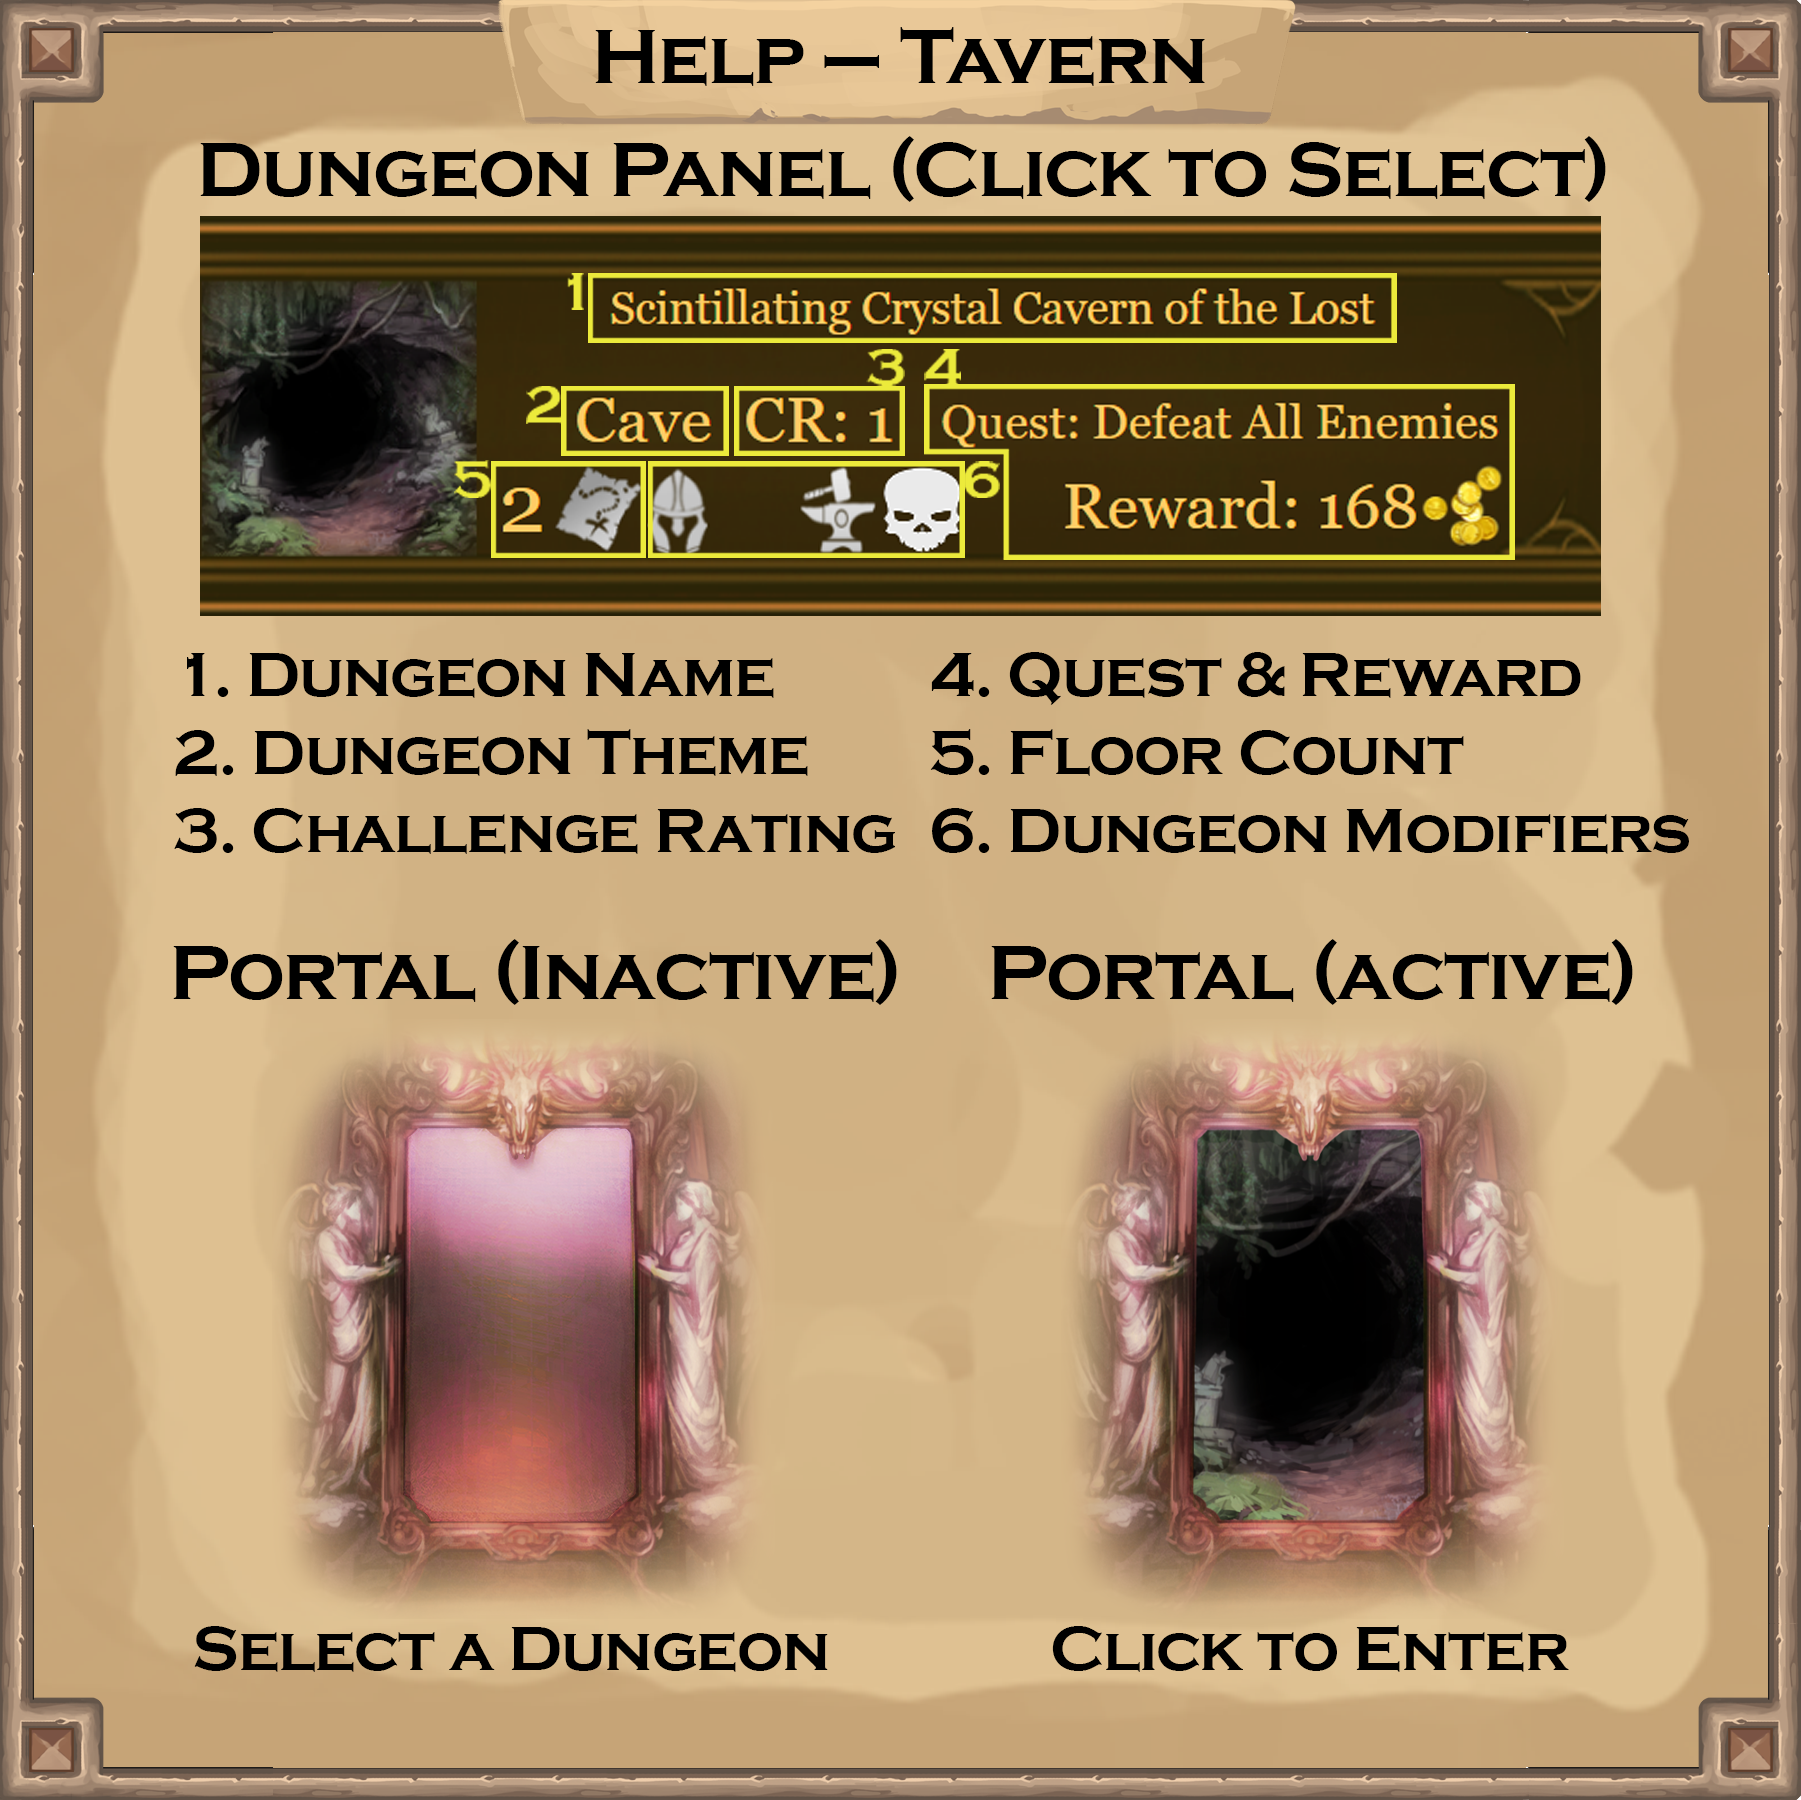
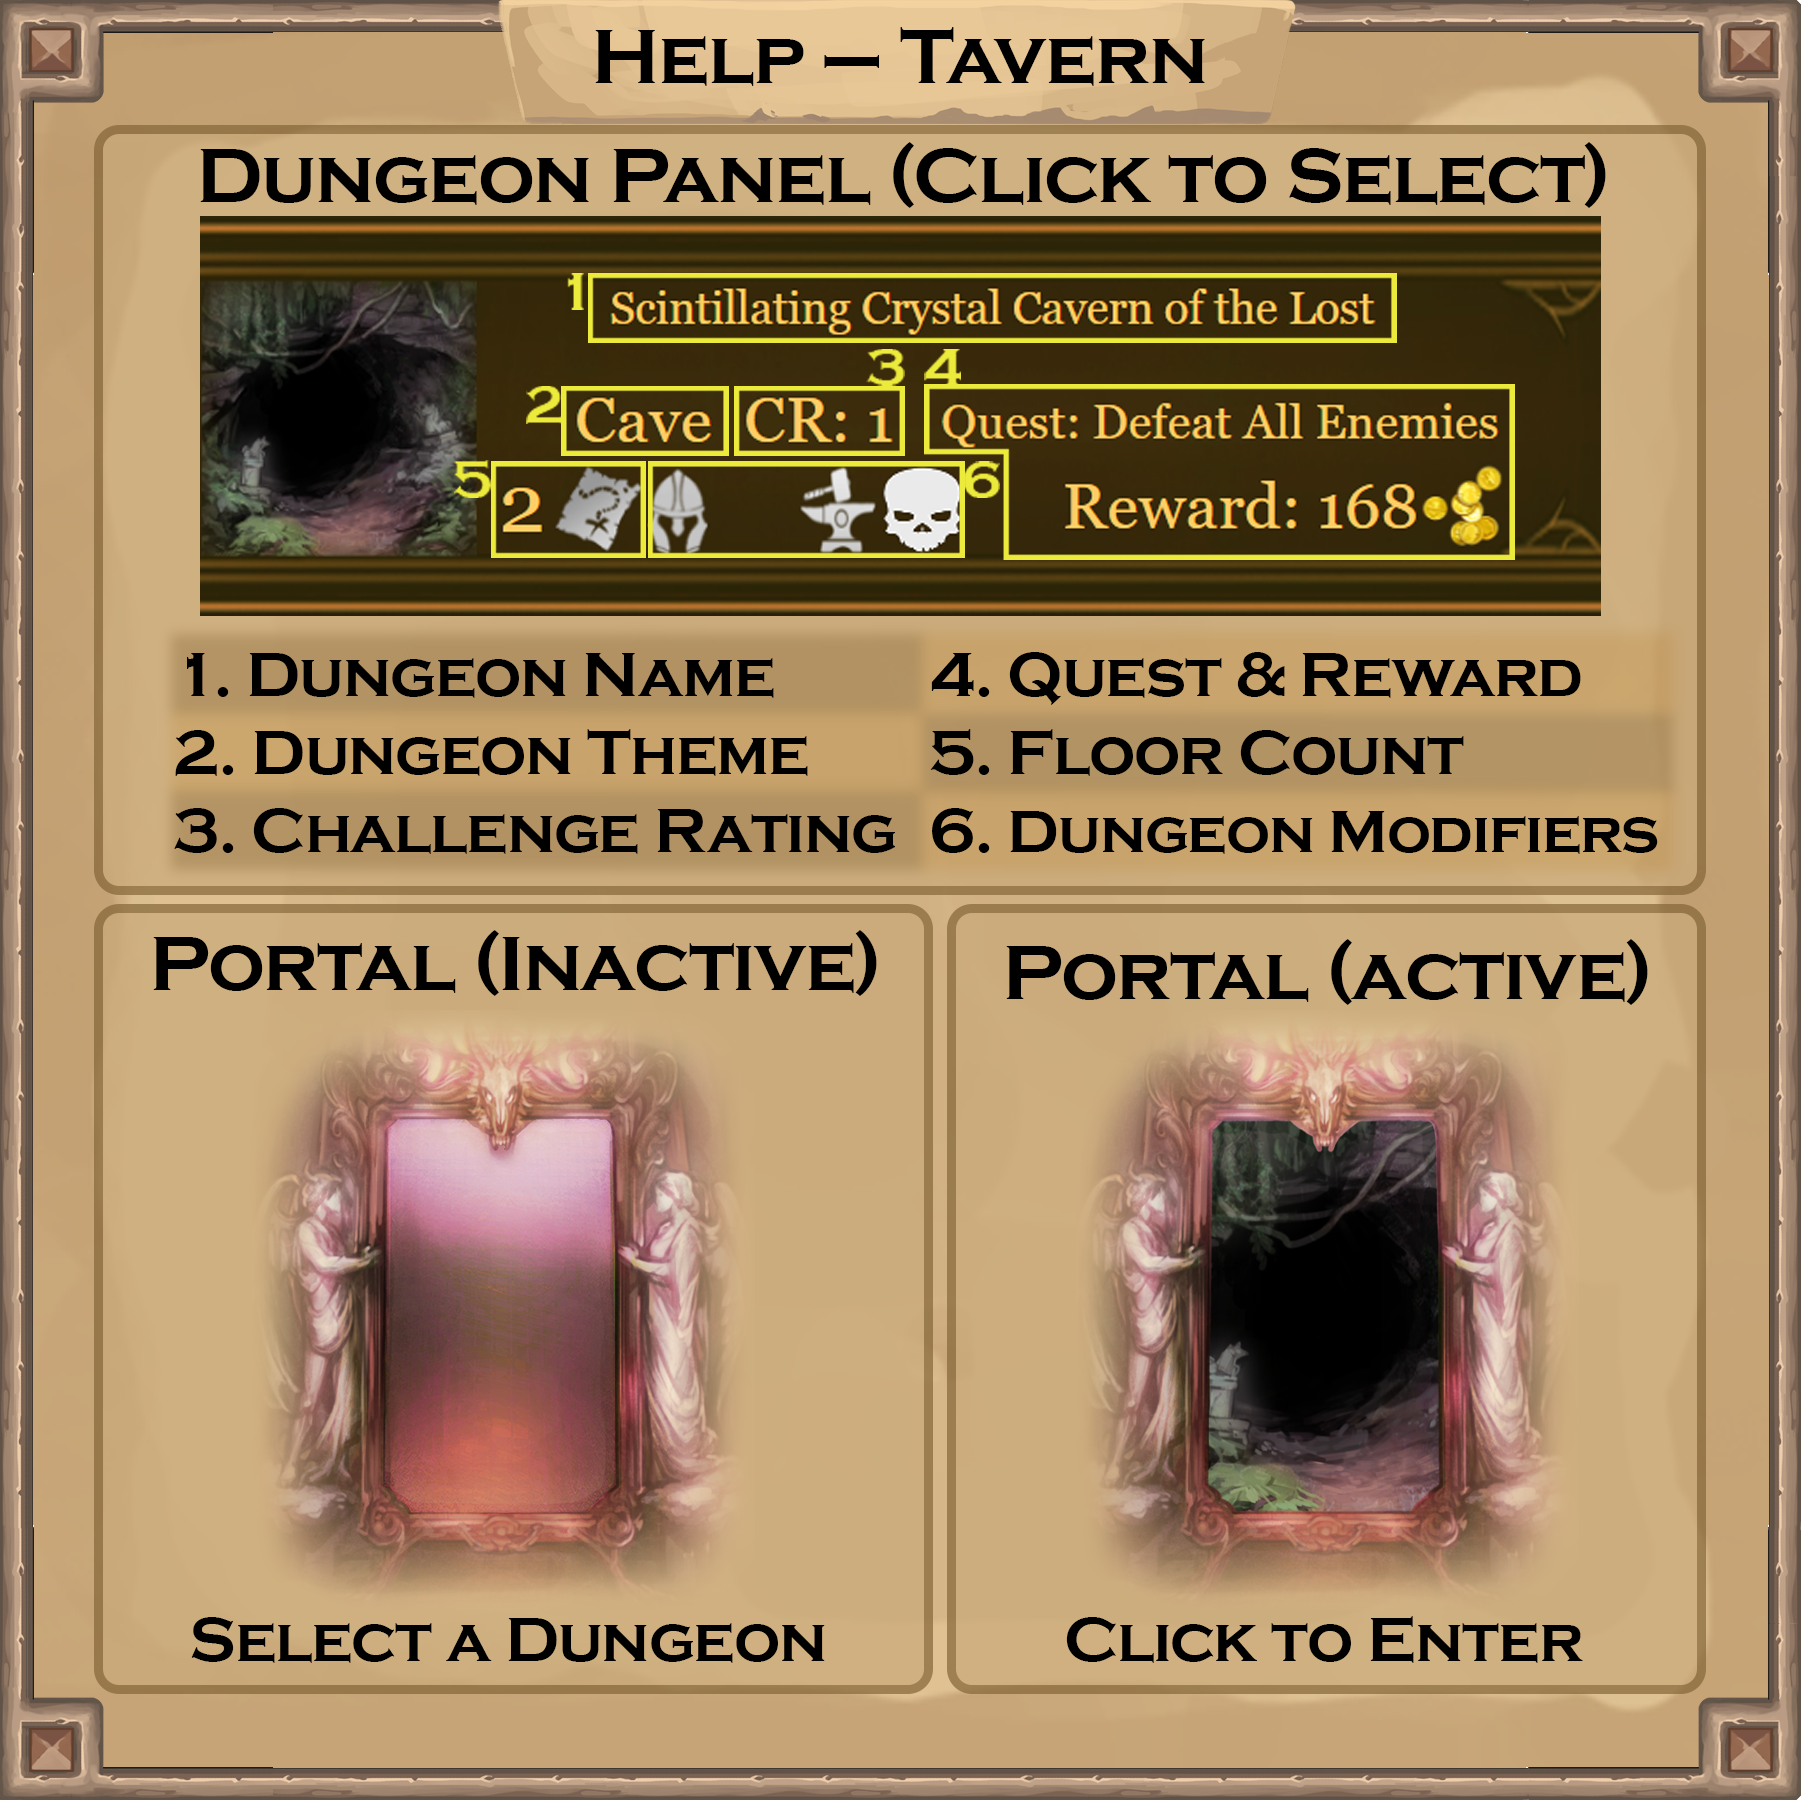
help menus

diff --git a/src/main/app/src/App.js b/src/main/app/src/App.js
@@ -27,6 +27,7 @@ class App extends React.Component {
       combatTransitions: false,
       questComplete: false,
       menu: null,
+      help: false,
       widthChange: 0,
       eaten: 0,
       rested: 0,
@@ -89,8 +90,12 @@ class App extends React.Component {
 
     this.disableUiMenus = false;
     this.backgroundSrc = "";
-    this.innerElements = <></>
-    this.outerElements = <></>
+    this.innerElements = []
+    this.outerElements = []
+    this.helpButton = 
+      <button className="btn-help" onClick={ () => {this.appState("help")} }>
+        <img src={images.helpIcon} alt="Help"/>
+      </button>
     this.InnerElements = () => {
       return(this.innerElements);
     }
@@ -141,8 +146,8 @@ class App extends React.Component {
     this.props.props.questComplete = this.state.questComplete;
     this.props.props.gameOver = this.state.gameOver;
     
-    this.innerElements = <></>
-    this.outerElements = <></>
+    this.innerElements = []
+    this.outerElements = []
     this.disableUiMenus = false;
     let button = "TownButton";
 
@@ -150,11 +155,17 @@ class App extends React.Component {
       if(this.state.scene === "Default"){
         this.backgroundSrc = this.props.props.images.town
         button = "HomeButton"
-        this.innerElements = <>
-          <input className="tavern" type="image" src={this.props.props.images.tavernExterior} alt="Tavern" onClick={ () => { this.setStateCustom({scene:"Tavern"})} }/>
-          <input className="inn" type="image" src={this.props.props.images.innExterior} alt="Inn" onClick={ () => { this.setStateCustom({scene:"Inn"})} }/>
-          <input className="shop" type="image" src={this.props.props.images.shopExterior} alt="Shop" onClick={ () => { this.setStateCustom({scene:"Shop"})} }/>
-        </>
+        this.innerElements.push(
+          <>
+            <input className="tavern" type="image" src={this.props.props.images.tavernExterior} alt="Tavern" onClick={ () => { this.setStateCustom({scene:"Tavern"})} }/>
+            <input className="inn" type="image" src={this.props.props.images.innExterior} alt="Inn" onClick={ () => { this.setStateCustom({scene:"Inn"})} }/>
+            <input className="shop" type="image" src={this.props.props.images.shopExterior} alt="Shop" onClick={ () => { this.setStateCustom({scene:"Shop"})} }/>
+          </>
+        );
+        this.outerElements.push(this.helpButton);
+        if(this.state.help){
+          this.outerElements.push(this.helpMenu(images.helpTown));
+        }
       } else if(this.state.scene === "Tavern"){
         if(this.state.pc.currentDungeon && (!this.state.dungeon || this.state.dungeon.id !== this.state.pc.currentDungeon)){
           fetch('/dungeon/'+ this.state.pc.currentDungeon)
@@ -183,15 +194,23 @@ class App extends React.Component {
 
         this.disableUiMenus = true;
         this.backgroundSrc = this.props.props.images.tavern
-        this.outerElements = <>
-          <TavernMenu props={this.props.props} dungeonBoard={this.state.dungeonBoard} dungeon={this.state.dungeon}/>
-        </>
+        this.outerElements.push( 
+          <>
+            <TavernMenu props={this.props.props} dungeonBoard={this.state.dungeonBoard} dungeon={this.state.dungeon}/>
+          </>
+        );
+        this.outerElements.push(this.helpButton);
+        if(this.state.help){
+          this.outerElements.push(this.helpMenu(images.helpTavern));
+        }
       } else if(this.state.scene==="Inn"){
         this.disableUiMenus = true;
         this.backgroundSrc = this.props.props.images.inn
-        this.outerElements = <>
-          <InnMenu props={this.props.props} eaten={this.state.eaten} rested={this.state.rested}/>
-        </>
+        this.outerElements.push(
+          <>
+            <InnMenu props={this.props.props} eaten={this.state.eaten} rested={this.state.rested}/>
+          </>
+        );
       } else if(this.state.scene==="Shop"){
         if(this.state.pc.currentShop){
           if(!this.state.shop){
@@ -219,9 +238,11 @@ class App extends React.Component {
 
         this.disableUiMenus = true;
         this.backgroundSrc = this.props.props.images.shop
-        this.outerElements = <>
-          <ShopMenu props={this.props.props} shop={this.state.shop}/>
-        </>
+        this.outerElements.push(
+          <>
+            <ShopMenu props={this.props.props} shop={this.state.shop}/>
+          </>
+        );
       }
     } else if(this.state.pc.location === "Dungeon") {
       if(!this.state.dungeon){
@@ -248,7 +269,13 @@ class App extends React.Component {
 
       if(this.state.dungeon && this.state.dungeon.floors){
         this.backgroundSrc = this.props.props.images[this.state.dungeon.theme.toLowerCase() + this.state.dungeon.floors[this.state.dungeon.currentFloor].rooms[this.state.dungeon.currentRoom].variant];
-        this.innerElements = <Dungeon props={this.props.props} dungeon={this.state.dungeon} pcServices={this.pcServices}/>
+        this.outerElements.push(
+          <Dungeon props={this.props.props} dungeon={this.state.dungeon} pcServices={this.pcServices}/>
+        );
+        this.outerElements.push(this.helpButton);
+        if(this.state.help){
+          this.outerElements.push(this.helpMenu(this.state.combat ? images.helpCombat : images.helpDungeon));
+        }
       } else {
         this.backgroundSrc = this.props.props.images.tavern
       }
@@ -283,6 +310,15 @@ class App extends React.Component {
           new Image().src = this.props.props.monsters[type][item];
         });
       });
+    }
+
+    helpMenu(src){
+      return(
+        <div className="help-menu">
+          <img src={src} className="background" alt="Help Menu"/>
+          <img className="btn-close-help hover-saturate" src={images.buttonClose} alt="Close" onClick={() => this.appState("help")}/>
+        </div>
+      );
     }
 
     checkCombat(){
@@ -360,6 +396,9 @@ class App extends React.Component {
       let count;
       let addItem = true;
       switch(method){
+        case "help":
+          this.setStateCustom({help: this.state.help ? false : true})
+          break;
         case "game-over":
           this.setStateCustom({gameOver: key});
           break;

diff --git a/src/main/app/src/styles/masterAppStyle.css b/src/main/app/src/styles/masterAppStyle.css
@@ -433,6 +433,13 @@
 				width: 8.522%;
 				height: 8.0655%;
 			}
+			.btn-close-help {
+				position: absolute;
+				right: 1.6111%;
+				top: 1.6111%;
+				height: 6.5%;
+				width: 6.5%;
+			}
 			.btn-atr {
 				position:absolute;
 				width: 21.7816%;
@@ -1162,13 +1169,42 @@
 				border-radius: 100%;
 				transition-duration: 0.4s;
 			}
-			.btn-home:hover {
+			.btn-help {
+				position: absolute;
+				top: 13.95%;
+				right: 1.4286%;
+				text-align: center;
+				width: 4.5%;
+				height: 9.45%;
+				background-color: #55555588;
+				border: 1% solid #69696988;
+				border-radius: 100%;
+				transition-duration: 0.4s;
+			}
+			.help-menu {
+				position: absolute;
+				right: 6.5%;  
+				top: 3%;     
+				width: 42.8571%;
+				height: 90.0%; 
+			}
+			.btn-home:hover, .btn-help:hover {
 				background-color: #69696988;
 				border: 1% solid #55555588;
 			}
 			.btn-home img{
 				position:absolute;
 				width: 75%;
+				height: auto;
+				opacity: 0.5;
+				top: 50%;
+				left:50%;
+				transform: translate(-50%, -50%);
+				-ms-transform: translateY(-50%) translateX(-50%);
+			}
+			.btn-help img{
+				position:absolute;
+				width: 100%;
 				height: auto;
 				opacity: 0.5;
 				top: 50%;

diff --git a/src/main/app/src/images/index.js b/src/main/app/src/images/index.js
@@ -76,6 +76,11 @@ export {default as frameCommon} from './frame-common.png'
 export {default as frameEpic} from './frame-epic.png'
 export {default as food} from './food.png'
 export {default as heart} from './heart.png'
+export {default as helpCombat} from './help-combat.png'
+export {default as helpDungeon} from './help-dungeon.png'
+export {default as helpIcon} from './help-icon.png'
+export {default as helpTavern} from './help-tavern.png'
+export {default as helpTown} from './help-town.png'
 export {default as iconArmor} from './icon-armor.png'
 export {default as iconEnergize} from './icon-energize.png'
 export {default as iconHeal} from './icon-heal.png'
